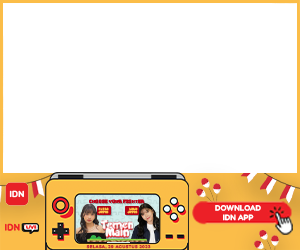
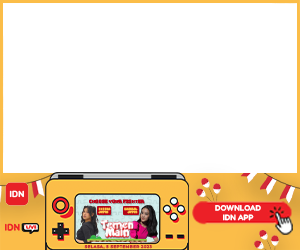
awd

Changed region(s): [[0.24, 0.812, 0.54, 1.0]]

diff --git a/idntimes/masthead/internal/idnlive/temen-main/src/index.html b/idntimes/masthead/internal/idnlive/temen-main/src/index.html
@@ -8,7 +8,7 @@
 <script src="https://code.jquery.com/jquery-3.7.0.js" integrity="sha256-JlqSTELeR4TLqP0OG9dxM7yDPqX1ox/HfgiSLBj8+kM=" crossorigin="anonymous"></script>
 <script>
   var FloatingAds = function() {
-    var $floatingBanner = $('<div id="floatingbanner" style="position: fixed; background-color: black; width: 400px; height: 300px; left: -410px; bottom: 15px; z-index: 999; -webkit-transition: all 1s linear 0s; -moz-transition: all 1s linear 0s;-ms-transition: all 1s linear 0s;-o-transition: all 1s linear 0s;transition: all 1s linear 0s; box-shadow: 1px 1px 10px #ccc; border-radius: 10px;"><a href="https://tinyurl.com/jkt48lp" target="_blank"><img src="src/400x75.jpeg" style="max-width: 400px; height: 75px; position: absolute; bottom: 0; left: 0; border-bottom-left-radius: 10px; border-bottom-right-radius: 10px;"></a><iframe width="400" height="225" src="https://tinyurl.com/jkt48embed" frameborder="0" scrolling="no" allowfullscreen="true" style="position: absolute; width: 400px; height: 225px; left: 0px; top: 0px; z-index: 1; border-top-right-radius: 10px; border-top-left-radius: 10px;"></iframe></div>');
+    var $floatingBanner = $('<div id="floatingbanner" style="position: fixed; background-color: black; width: 400px; height: 300px; left: -410px; bottom: 15px; z-index: 999; -webkit-transition: all 1s linear 0s; -moz-transition: all 1s linear 0s;-ms-transition: all 1s linear 0s;-o-transition: all 1s linear 0s;transition: all 1s linear 0s; box-shadow: 1px 1px 10px #ccc; border-radius: 10px;"><a href="https://tinyurl.com/jkt48lp" target="_blank"><img src="src/400x75.png" style="max-width: 400px; height: 75px; position: absolute; bottom: 0; left: 0; border-bottom-left-radius: 10px; border-bottom-right-radius: 10px;"></a><iframe width="400" height="225" src="https://tinyurl.com/jkt48embed" frameborder="0" scrolling="no" allowfullscreen="true" style="position: absolute; width: 400px; height: 225px; left: 0px; top: 0px; z-index: 1; border-top-right-radius: 10px; border-top-left-radius: 10px;"></iframe></div>');
 
     $(window.parent.document.getElementsByTagName("body")).append($floatingBanner);
 
